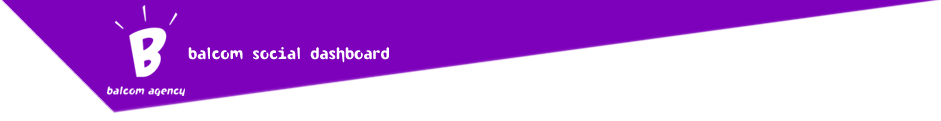
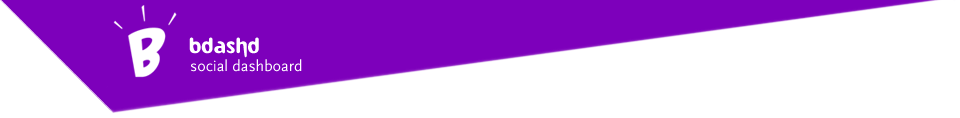
new design

diff --git a/public/stylesheets/scaffold.css b/public/stylesheets/scaffold.css
@@ -18,6 +18,11 @@ h3
   font-size:18px;
 }
 
+.noMargin
+{
+  margin:0;
+}
+
 .nobot
 {
   margin-bottom:0;
@@ -43,6 +48,16 @@ a
 .cleft
 {
   clear:left;
+}
+
+.right
+{
+  float:right;
+}
+
+.left
+{
+  float:left;
 }
 
 div.field, div.actions {
@@ -134,7 +149,7 @@ h1.header
 {
   background:url('/images/header.png');
   width:940px;
-  height:120px;
+  height:115px;
   text-indent:-9009px;
   margin:0 0 20px 0;
 }
@@ -147,17 +162,22 @@ h1.header
   border-radius:10px;
 }
 
+.side_spacing
+{
+  padding:15px;
+}
+
 .col1
 {
-  width:275px;
-  padding:10px;
+  width:280px;
+  padding:10px 15px;
   float:left;
 }
 
 .col2
 {
   width:280px;
-  padding:10px 10px 0;
+  padding:10px 15px 0;
   float:left;
   background:#f0f0f0;
   border-left:#dfdfdf solid 1px;
@@ -166,9 +186,9 @@ h1.header
 
 .col3
 {
-  width:275px;
+  width:280px;
   float:left;
-  padding:10px 10px;
+  padding:10px 15px;
 }
 
 .login
@@ -244,9 +264,21 @@ label.error
 }
 
 /* Admin */
-table#users td
+
+table#users
 {
-  padding:5px;
+  width:940px;
+}
+
+table#users td, table#users th
+{
+  padding:8px 5px;
+  text-align:left;
+}
+
+table#users td img
+{
+  border:none;
 }
 
 table#users tr:nth-child(2n)
@@ -267,10 +299,82 @@ h1.client
   margin-right:15px;
 }
 
+.logo
+{
+  margin-bottom:10px;
+}
+
 a.logout
 {
   display:inline-block;
   margin-top:10px;
+}
+
+h2.date
+{
+  float:right;
+  margin:5px 4px 0 0;
+}
+
+.number
+{
+  font-size:14px;
+}
+
+.count
+{
+  -moz-border-radius:10px;
+  border-radius:10px;
+  padding:0px 0 0 15px;
+  font-size:20px;
+  clear:left;
+  margin:8px 0;
+  font-family: "myriad-pro-1","myriad-pro-2",sans-serif;
+  height:48px;
+  border:1px #646464 solid;
+}
+
+.count .label
+{
+  display:inline-block;
+  padding-top:10px;
+}
+
+.divider
+{
+	-moz-border-radius-topright:10px;
+  border-top-right-radius: 10px; 
+  -moz-border-radius-bottomright:10px;
+  border-bottom-right-radius:10px;
+  display:inline-block;
+  margin:0 0 -15px;
+  padding:10px 15px 10px 15px;
+  height:28px;
+  float:right;
+  color:#fff;
+  background:url('/images/count.png');
+}
+
+.plus
+{
+  border:1px #0b8308 solid;
+}
+
+.plus .divider
+{
+  background:url('/images/plus.png');
+  border-left:1px #0b8308 solid;
+}
+
+.negative
+{
+  border:1px #820808 solid;
+}
+
+.negative .divider
+{
+  border-left:1px #820808 solid;
+  background:url('/images/negative.png');
 }
 
 /* Twitter */
@@ -278,7 +382,7 @@ img.twitter
 {
   float:left;
   border:4px solid #ddd;
-  margin:0 6px 6px 0;
+  margin:0 6px 10px 0;
   width:48px;
 }
 
@@ -293,14 +397,24 @@ ul.tweets
   list-style:none;
   margin:0;
   padding:0;
-  margin-left:-10px;
+  margin-left:-15px;
 }
 
 ul.tweets li
 {
   padding:10px;
-  width:100%;
+  width:290px;
   border-bottom:1px solid #DADADA;
+}
+
+ul.tweets li .status
+{
+  margin-left:49px;
+}
+
+ul.tweets li .twitter
+{
+  width:35px;
 }
 
 ul.tweets li:nth-child(2n)
@@ -319,8 +433,9 @@ img.book
 {
   float:left;
   border:4px solid #dcdcdc;
-  margin:0 6px 6px 0;
+  margin:0 6px 10px 0;
   width:48px;
+  clear:left;
 }
 
 ul.facebook
@@ -328,14 +443,19 @@ ul.facebook
   list-style:none;
   margin:0;
   padding:0;
-  margin-left:-10px;
+  margin-left:-15px;
 }
 
 ul.facebook li
 {
   padding:10px;
-  width:280px;
+  width:290px;
   border-bottom:1px solid #DADADA;
+}
+
+ul.facebook li .status
+{
+  margin-left:62px;
 }
 
 ul.facebook li:nth-child(2n)
